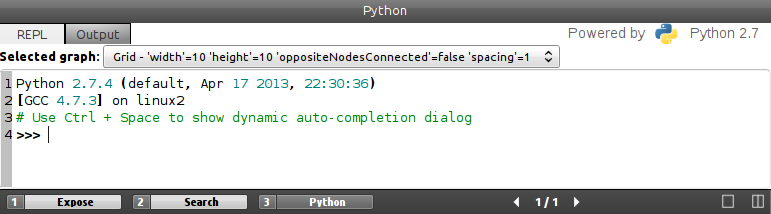
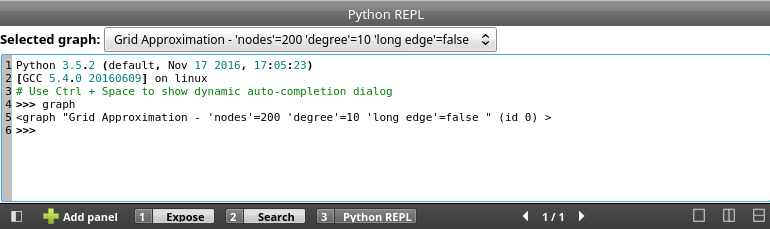
update the "Using the bindings from the Tulip Software GUI" section of the Python documentation after recent GUI changes regarding Tulip-Python components
git-svn-id: https://svn.code.sf.net/p/auber/code/tulip@12337 f5d4c5f9-c943-4916-8a57-bd8605bf961c

diff --git a/doc/python/gettingstarted.rst b/doc/python/gettingstarted.rst
@@ -8,58 +8,92 @@ Getting started
 Using the bindings from the Tulip Software GUI
 -----------------------------------------------
 
-Tulip Python IDE
-^^^^^^^^^^^^^^^^^
+Tulip Python bindings were primiraly designed to add a scripting feature to the main Tulip software and thus
+interactively manipulate the graphs loaded into it through a couple lines of Python code.
+In that purpose, several GUI components have been developed with the Qt framework and are available
+through the main Tulip interface:
 
-A lightweight Python IDE can be accessed through the graphical interface of Tulip.
-Three components are available :
+  * a **Python REPL** (Read Eval Print Loop) panel
+  * a **Python IDE** (Integrated Development Environment) window
 
-    * A **Python console**, accessible through the "Python" button at the bottom of the Tulip GUI (see :ref:`Figure 1<fig1>`). It contains a "REPL" tab (read eval print loop) which enables to
-      execute Python statements in an interactive manner. A combo box allows to select a graph from those
-      currently loaded in the software. The selected graph is then bound to a Python variable named "graph".
-      That component also contains an "Output" tab, that displays standard and error output of Python plugins (see :ref:`Writing Tulip plugins in Python <tulippythonplugins>`).
+Python REPL
+^^^^^^^^^^^
+
+The **Python REPL** (Read Eval Print Loop) panel is accessible through the "Python REPL" button
+at the bottom of the Tulip GUI (see :ref:`Figure 1<fig1>`). It enables to execute Python statements
+in an interactive manner. A combo box allows to select a graph from those currently loaded in the
+Tulip software. The selected graph is then bound to a global Python variable named "graph".
 
 .. warning:: All modifications that have been performed on a graph through the Python REPL cannot be undone.
 
 .. _fig1:
 .. figure:: tulipPythonREPL.png
-   :align: center
+  :align: center
 
-   Figure 1: Screenshot of the "Python console" component in the Tulip GUI.
+Figure 1: Screenshot of the "Python REPL" panel in the Tulip GUI.
 
-    * A **Python Script Editor**, integrated as a view plugin named "Python Script view",
-      accessible through the "Add panel" button at the bottom left corner of the Tulip GUI (see :ref:`Figure 2<fig2>`).
-      It allows to write scripts that can be applied to the
+Tulip Python IDE
+^^^^^^^^^^^^^^^^^
+
+A lightweight Python IDE can be accessed through the graphical interface of Tulip. Some GUI reorganisation
+has been made in Tulip 4.11 and all Python development features (except the REPL) are now centralized in a
+separated window. It can be displayed by clicking on the "Python IDE" button located in the left part of
+the Tulip interface.
+
+.. image:: tulipPythonIDEButton.png
+  :align: center
+
+Its interface is composed of three tabs:
+
+    * A **Scripts editor** tab (see :ref:`Figure 2<fig2>`): it allows to write scripts that can be applied to the
       graphs currently loaded in Tulip. To do so, the "main(graph)" function has to be defined in the script code
-      and is used as the script entry point. The graph currently selected in the view is wrapped
-      as a :class:`tlp.Graph` object and provided as parameter of the "main" function.
-      The currently edited script can be launched through the control panel located
-      in the lower part of the view interface. Once started, the script execution can be
-      stopped at any time. All modifications performed by a script on a graph can be undone.
-      The view also enables to develop Python modules that can be immediately imported
-      in the current Python session.
+      and is used as the script entry point. The graph currently selected through the combobox located in the upper
+      part of the tab is wrapped as a :class:`tlp.Graph` object and provided as parameter of the "main" function.
+      The currently edited script can be launched through the control panel located in the lower part of the tab interface.
+      Once started, the script execution can be stopped or paused (trigerring update of Tulip visualizations) at any time.
+      All modifications performed by a script on a graph can be cancelled / replayed through the Tulip undo / redo feature.
 
 .. _fig2:
 .. figure:: tulipPythonScript.png
    :align: center
 
-   Figure 2: Screenshot of the "Python Script view" in the Tulip GUI.
+   Figure 2: Screenshot of the "Scripts editor" tab in the Python IDE.
 
-    * A **Python Plugin Editor**, accessible through the "Develop" button at the left of the Tulip GUI (see :ref:`Figure 3<fig3>`).
-      It enables to develop Tulip plugins in pure Python (see :ref:`Writing Tulip plugins in Python <tulippythonplugins>`).
-      These plugins are then immediately integrated in the Tulip GUI when requesting their registration (if their source code is valid of course).
-      Different kinds of plugins can be develop : General Algorithms, Property Algorithms, Import plugins and Export plugins.
-      When executing these plugins, standard and error output will be displayed in the "Output" tab of the Python console component.
-      That component also enables to develop Python modules that can be immediately imported in the current Python session.
-      If there is a Tulip project associated to the current Tulip session, the source code of the plugins and modules are automatically saved in it.
-      When reopening the project, the previously edited plugins will still be available
-      in the editor and they will also be automatically loaded.
+    * A **Plugins editor** tab (see :ref:`Figure 3<fig3>`): it enables to develop Tulip plugins in pure Python
+      (see :ref:`Writing Tulip plugins in Python <tulippythonplugins>`).
+      These plugins are then immediately integrated in the Tulip GUI when requesting their registration
+      (if their source code is valid of course). Different kinds of plugins can be developed : General Algorithms,
+      Property Algorithms, Import plugins and Export plugins. When executing these plugins, standard and error output
+      will be displayed in the "Message Log" panel of the Tulip GUI.
 
 .. _fig3:
 .. figure:: tulipPythonPlugin.png
    :align: center
 
-   Figure 3: Screenshot of the "Python Plugin Editor" in the Tulip GUI.
+   Figure 3: Screenshot of the "Plugins editor" tab in the Python IDE.
+
+    * A **Modules editor** tab (see :ref:`Figure 4<fig4>`): it enables to develop Python modules that
+      can be immediately imported in the current Python session. The purpose is to have a library of utility
+      Python modules that can be easily imported in the developed scripts and plugins.
+
+.. _fig4:
+.. figure:: tulipPythonModule.png
+   :align: center
+
+   Figure 4: Screenshot of the "Modules editor" tab in the Python IDE.
+
+Backup and restore your Python code with Tulip projects
+^^^^^^^^^^^^^^^^^^^^^^^^^^^^^^^^^^^^^^^^^^^^^^^^^^^^^^^
+
+The Tulip software uses a zipped project file format named TLPX to save and restore the state of a Tulip
+work session in a portable way. Notably it contains the graphs that was loaded in the software serialized to
+files but also the configuration of the views and components that was opened in the software.
+
+When working with the Python IDE, the source code of the scripts, plugins and modules currently edited
+are automatically saved to the current Tulip project. When reopening the project file, the previously
+edited scripts, plugins and modules will still be available in the Python IDE even if you open the file
+on a computer different from the one you write your code. Python plugins will also be
+automatically loaded when reopening the project.
 
 Using the autocompletion to code faster
 ^^^^^^^^^^^^^^^^^^^^^^^^^^^^^^^^^^^^^^^^
@@ -78,14 +112,14 @@ That database is also updated dynamically by performing a static analysis on the
 that analysis tries to associate a typename to each variable in the source code).
 The autocompletion will also popup immediatly when hitting a dot character. If the variable before the dot
 has an associated typename in the database, only the contents of its dictionary will be inserted in the list.
-:ref:`Figure 4<fig4>` shows an
+:ref:`Figure 5<fig5>` shows an
 example of the contents of the autocompletion list when requesting it on the "graph" variable (of type :class:`tlp.Graph`)
 
-.. _fig4:
+.. _fig5:
 .. figure:: autocompletion_global.png
    :align: center
 
-   Figure 4: Using the autocompletion list to get the dictionary contents of a Python object.
+   Figure 5: Using the autocompletion list to get the dictionary contents of a Python object.
 
 Tulip special autocompletion features
 """"""""""""""""""""""""""""""""""""""
@@ -99,60 +133,60 @@ features have been included to ease the use of the Tulip Python API:
       :meth:`tlp.Graph.applySizeAlgorithm`, :meth:`tlp.Graph.applyStringAlgorithm`, :func:`tlp.importGraph`, :func:`tlp.exportGraph`.
       The first parameter of those method is a string containing the name of the algorithm (plugin)
       to call. When requesting the autocompletion list with the following context : *graph.apply\*Algorithm(*, it will be filled with the names of the corresponding
-      algorithms (plugins). :ref:`Figure 5<fig5>` shows an example of the contents of the autocompletion list when requesting it with the following context : *graph.applyLayoutAlgorithm(*.
+      algorithms (plugins). :ref:`Figure 6<fig6>` shows an example of the contents of the autocompletion list when requesting it with the following context : *graph.applyLayoutAlgorithm(*.
 
-.. _fig5:
+.. _fig6:
 .. figure:: autocompletion_algos.png
    :align: center
 
-   Figure 5: Using the autocompletion list to get the algorithm names.
+   Figure 6: Using the autocompletion list to get the algorithm names.
 
     * **Autocompletion for algorithm parameters** Parameters can be passed to Tulip algorithms through a dictionnary. The parameters are
       identified by their names. The autocompletion list can be used to get the names of these parameters.
-      :ref:`Figure 6<fig6>` shows an example of the autocompletion list contents when requesting the parameters
+      :ref:`Figure 7<fig7>` shows an example of the autocompletion list contents when requesting the parameters
       of the layout algorithm : "FM^3 (OGDF)".
 
-.. _fig6:
+.. _fig7:
 .. figure:: autocompletion_algosparams.png
    :align: center
 
-   Figure 6: Using the autocompletion list to get the algorithm parameters names.
+   Figure 7: Using the autocompletion list to get the algorithm parameters names.
 
     * **Autocompletion for string collection parameters** Some algorithms parameters are internally
       based on a :class:`tlp.StringCollection` instance. It allows to select a string from a defined set.
       The direct use of that class is now deprecated but the autocompletion list can be helpfull to get the names of the
       available values that can be transmitted to the algorithm.
-      :ref:`Figure 7<fig7>` shows an example of the autocompletion list contents when requesting the string collection values
+      :ref:`Figure 8<fig8>` shows an example of the autocompletion list contents when requesting the string collection values
       for the "Allowed Positions" parameter of the layout algorithm : "FM^3 (OGDF)".
 
-.. _fig7:
+.. _fig8:
 .. figure:: autocompletion_stringcollection.png
    :align: center
 
-   Figure 7: Using the autocompletion list to get the algorithm parameters names.
+   Figure 8: Using the autocompletion list to get the algorithm parameters names.
 
     * **Autocompletion for graph properties** Tulip stores the data associated to graph elements in objects called properties. To get a reference
       on those type of objects, you can either use specific methods (for instance : :meth:`tlp.Graph.getLayoutProperty`, :meth:`tlp.Graph.getSizeProperty`)
       that take the name of the property to retrieve as parameter or the following syntax : *graph["property name"]*. When requesting the autocompletion list
       for the following context : *graph.get*Property(* or *graph[*, the list will be filled with the names of the corresponding and existing properties.
-      :ref:`Figure 8<fig8>` show an example of the contents of the autocompletion list for the following context : *graph[*.
+      :ref:`Figure 9<fig9>` show an example of the contents of the autocompletion list for the following context : *graph[*.
 
-.. _fig8:
+.. _fig9:
 .. figure:: autocompletion_properties.png
    :align: center
 
-   Figure 8: Using the autocompletion list to get the graph properties names.
+   Figure 9: Using the autocompletion list to get the graph properties names.
 
     * **Autocompletion list for sub-graphs** Tulip allows to manipulate a large hierarchy of sub-graphs. References to those sub-graphs can be retrieved
       with their names through the use of the dedicated method :meth:`tlp.Graph.getSubGraph`. When requesting the autocompletion list for the
-      following context : *graph.getSubGraph(*, the list will be filled with all the names of the graphs present in the hierarchy. :ref:`Figure 9<fig9>` shows
+      following context : *graph.getSubGraph(*, the list will be filled with all the names of the graphs present in the hierarchy. :ref:`Figure 10<fig10>` shows
       an example of that use case.
 
-.. _fig9:
+.. _fig10:
 .. figure:: autocompletion_subgraphs.png
    :align: center
 
-   Figure 9: Using the autocompletion list to get the sub-graphs names.
+   Figure 10: Using the autocompletion list to get the sub-graphs names.
 
 .. _usingBindingsInShell:
 
